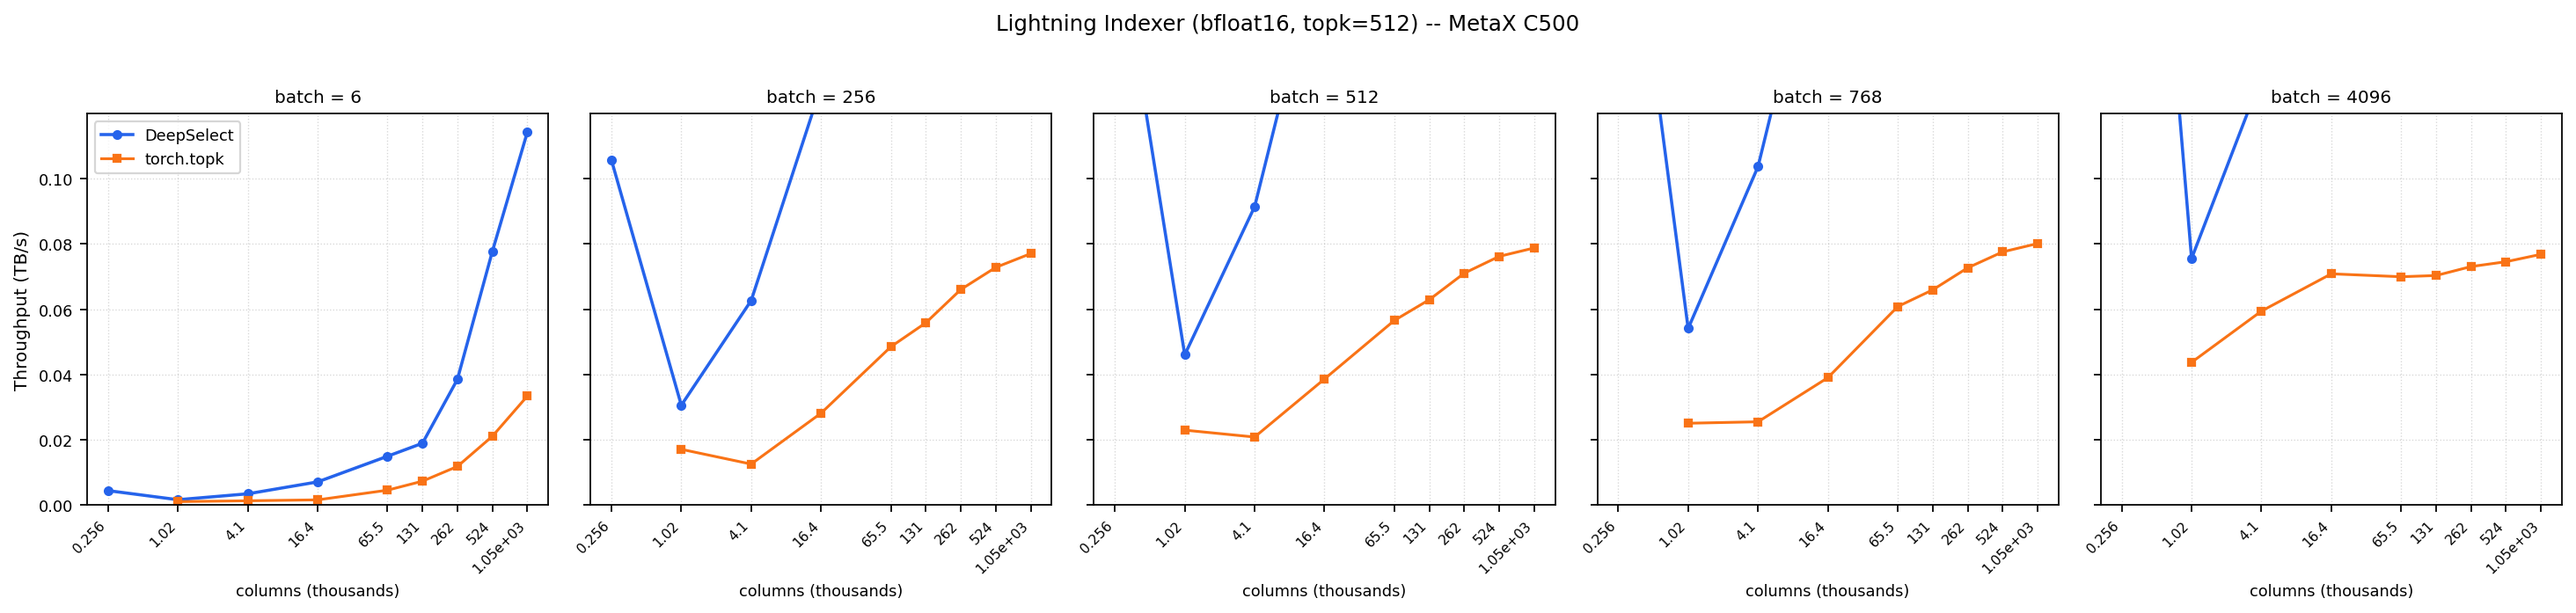
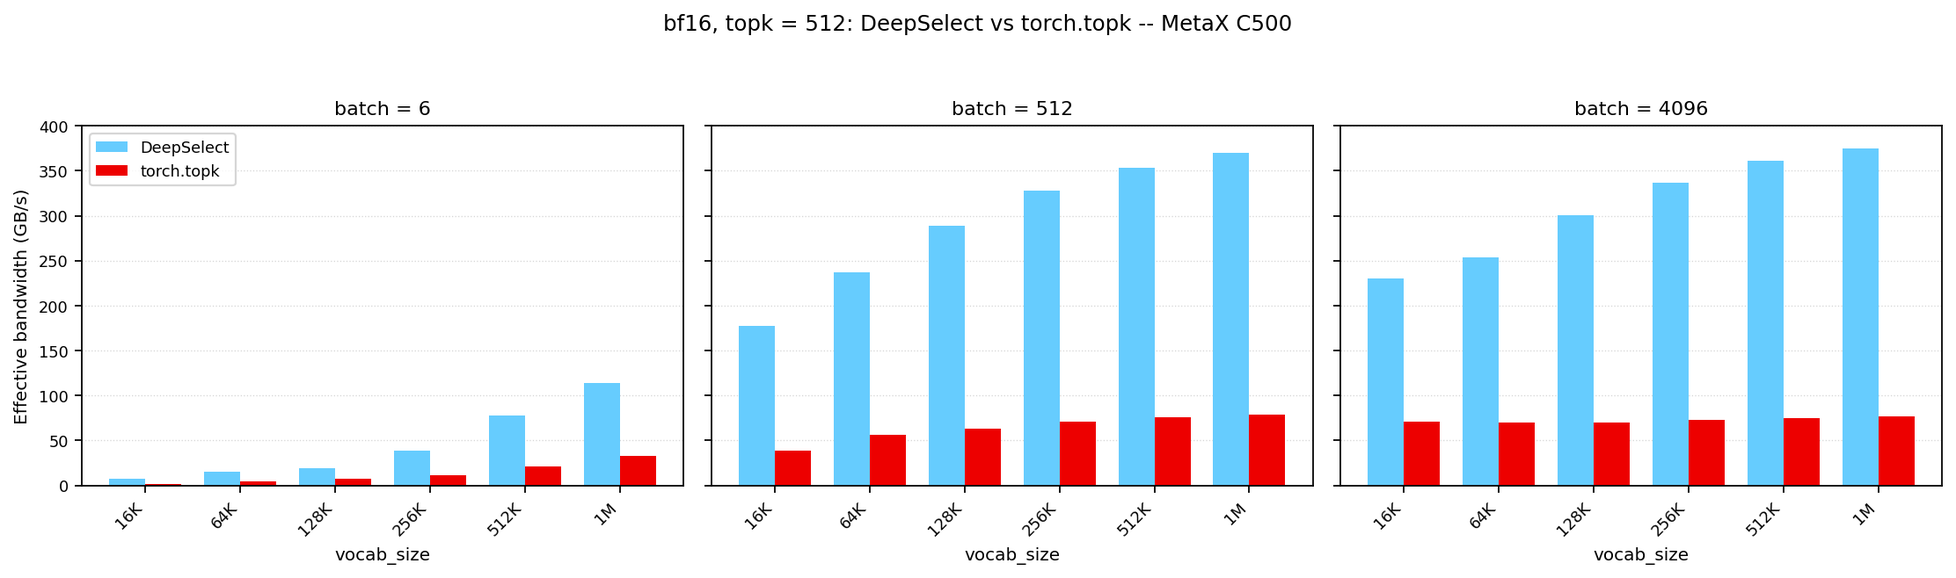
docs: redraw the MACA figures as grouped bar charts, on a fitted y-axis
The two `_maca` figures were line plots of a grid the README did not describe.
They are now the same instrument upstream's own figures are -- grouped bars of
effective bandwidth, DeepSelect beside torch.topk -- so the MACA picture and
the CUDA picture can be read against each other: bf16 in one panel per batch
size (6 / 512 / 4096) over vocab size (16K / 64K / 128K / 256K / 512K / 1M),
fp32 over batch size (6 / 256 / 512 / 768 / 4096).  Style is matched to
`assets/perf_bf16.png` by sampling it: series colours `#66ccfe` / `#ed0000`,
boxed legend, dotted horizontal grid, `batch = N` panel titles, `16K`-spelled
ticks, `vocab_size` / `batch_size` axis labels, `-- {device}` in the title.

What is not matched is the axis: upstream's is a fixed 0 - 7 TB/s for an H200,
and these cells are memory-bound on a part whose read wall is a fraction of
that, so the shared TB/s axis would leave every bar a sliver.  These are GB/s
on a range fitted to the data.

Two defects the redraw exposed, both fixed here.

The shared y-axis was frozen at the first panel's peak.  `set_ylim` resolves a
shared axis on the spot, so a limit set from inside the per-panel loop fixes
the range before the later panels' taller bars are drawn -- on the bf16 figure
every bar of `batch = 512` and `batch = 4096` ran off the top of the axes.  The
limit is now computed from every panel's data at once, before the loop, and is
a round number clearing the tallest bar by >= 5%.
[…]

diff --git a/scripts/plot_perf.py b/scripts/plot_perf.py
@@ -2,13 +2,22 @@
 """Render the README's performance figures from a `perf_snapshot.py` recording.
 
 Two figures, both drawn from one `deepselect_perf.csv` so the picture and the
-record it came from cannot disagree:
+record it came from cannot disagree.  Both are grouped bar charts of effective
+bandwidth, `maca_c` (DeepSelect) beside `torch.topk` in each group, laid out as
+`assets/perf_bf16.png` and `assets/perf_fp32.png` are:
 
-* `perf_bf16_maca.png` -- Lightning Indexer: bfloat16, `topk = 512`, one subplot
-  per batch size, effective throughput (TB/s) over the column count, `maca_c`
-  and `torch.topk` on a shared axis.
-* `perf_fp32_maca.png` -- Sampling: float32, `vocab_size = 129280`, `topk = 512`,
-  speedup against `torch.topk` over batch size.
+* `perf_bf16_maca.png` -- Lightning Indexer: bf16, `topk = 512`, one panel per
+  batch size (6 / 512 / 4096), grouped bars over vocab size (16K / 64K / 128K /
+  256K / 512K / 1M), one shared y-axis.
+* `perf_fp32_maca.png` -- Sampling: fp32, `vocab_size = 129280`, `topk = 512`,
+  grouped bars over batch size (6 / 256 / 512 / 768 / 4096).
+
+The upstream figures are in TB/s over a fixed 0-7 axis; these are in GB/s over a
+range fitted to the data, because these parts' read wall is a fraction of an
+H200's and a shared 0-7 TB/s axis would leave every bar a sliver.  What is
+matched is the rest of the style: the two series' colours, the boxed legend, the
+per-panel `batch = N` titles, the dotted horizontal grid, the `16K`-style tick
+labels and the `-- {device}` suffix each title carries.
 
 The CSV is written by `scripts/perf_snapshot.py`; the timings in it are
 `tests/test.py`'s own, one row per (cell, backend).  Only `maca_c` and `torch`
@@ -29,6 +38,8 @@ Usage:
 
 import argparse
 import csv
+import math
+import re
 from pathlib import Path
 
 import matplotlib
@@ -40,23 +51,44 @@ REPO = Path(__file__).resolve().parent.parent
 PERF_ROOT = REPO / "perf_data"
 DEFAULT_ASSETS = REPO / "assets"
 
-COLOR_MACA = "#2563eb"
-COLOR_TORCH = "#f97316"
+# Upstream's own series colours, sampled from `assets/perf_bf16.png`.
+COLOR_MACA = "#66ccfe"
+COLOR_TORCH = "#ed0000"
+
+# A recording directory's name, `YYYYmmdd_HHMMSS`.
+STAMP = re.compile(r"\d{8}_\d{6}")
+
+# The upstream figure's grid: three batch sizes, six vocab sizes, `topk = 512`.
+BF16_BATCHES = (6, 512, 4096)
+BF16_VOCABS = (16384, 65536, 131072, 262144, 524288, 1048576)
+
+BAR_WIDTH = 0.38
+# How much air the y-axis leaves above the tallest bar drawn.
+HEADROOM = 1.05
 
 
 def newest_snapshot(perf_root: Path) -> Path:
     """The `deepselect_perf.csv` of the newest `<device>/<stamp>/` recording.
 
     The stamp is `YYYYmmdd_HHMMSS`, so lexicographic order is chronological and
-    the path needs no stat to sort.
+    the path needs no stat to sort.  Two things are excluded deliberately:
+
+    * `perf_data/<device>/baseline` is a *symlink* to a recording, and globbing
+      `*/*` would let that name sort last under any device and pick a recording
+      from the wrong board with no sign that it did.
+    * The device directory's name.  Sorting the whole path would order the
+      *boards* (`MetaX_C500` before `MetaX_C600-U`) and only then the stamps, so
+      a week-old recording on the later-named board would beat this morning's on
+      the earlier-named one.  The stamp is the timestamp; it is what is compared.
     """
-    found = sorted(perf_root.glob("*/*/deepselect_perf.csv"))
-    if not found:
+    stamps = [p for p in perf_root.glob("*/*/deepselect_perf.csv")
+              if STAMP.fullmatch(p.parent.name)]
+    if not stamps:
         raise FileNotFoundError(
             f"no snapshot under {perf_root} -- record one with "
             f"`scripts/perf_snapshot.py` first"
         )
-    return found[-1]
+    return max(stamps, key=lambda p: (p.parent.name, str(p)))
 
 
 def load_rows(source: Path):
@@ -69,22 +101,12 @@ def load_rows(source: Path):
         raise ValueError(f"no rows found in {path}")
     required = {
         "family", "n_rows", "n_cols", "top_k", "input_dtype", "backend",
-        "time(us)", "throughput(TB/s)",
+        "bandwidth(GB/s)",
     }
     missing = required.difference(rows[0])
     if missing:
         raise ValueError(f"missing CSV columns: {', '.join(sorted(missing))}")
     return path, rows
-
-
-def _us(row: str):
-    """A row's `time(us)` as a float, or None when the backend was not timed.
-
-    An empty clock is "not measured", never zero: the two must not be conflated
-    into a point at the origin.
-    """
-    value = (row.get("time(us)") or "").strip()
-    return float(value) if value else None
 
 
 def _select(rows, **want):
@@ -93,6 +115,16 @@ def _select(rows, **want):
         if all(str(row.get(key, "")) == str(val) for key, val in want.items()):
             out.append(row)
     return out
+
+
+def _bandwidth(row):
+    """A row's `bandwidth(GB/s)` as a float, or None when it was not measured.
+
+    An empty cell is "not timed", never zero: the two must not be conflated
+    into a bar of zero height.
+    """
+    value = (row.get("bandwidth(GB/s)") or "").strip()
+    return float(value) if value else None
 
 
 def device_label(row) -> str:
@@ -107,108 +139,145 @@ def device_label(row) -> str:
     return row.get("device_name") or row.get("chip", "")
 
 
-def plot_bf16(rows, source: Path, output: Path) -> bool:
+def _vocab_label(n: int) -> str:
+    """A column count as a short tick label: 16384 -> `16K`, 1048576 -> `1M`."""
+    for div, suffix in ((1 << 20, "M"), (1 << 10, "K")):
+        if n >= div and n % div == 0:
+            return f"{n // div}{suffix}"
+    return str(n)
+
+
+def _bandwidth_by(cells, backend):
+    """`(n_rows, n_cols) -> GB/s` for one backend's timed cells."""
+    out = {}
+    for row in cells:
+        if row["backend"] != backend:
+            continue
+        value = _bandwidth(row)
+        if value is not None:
+            out[(int(row["n_rows"]), int(row["n_cols"]))] = value
+    return out
+
+
+def _axis_top(panels, headroom=HEADROOM):
+    """A round y-limit that clears the tallest bar of every panel.
+
+    It has to be computed from all panels at once and set explicitly: the
+    panels share a y-axis, and `set_ylim` resolves that shared axis on the
+    spot, so setting a limit from inside the panel loop would freeze the range
+    at whatever the first panel happened to contain -- clipping every later
+    panel's taller bars at the top of the axes.
+    """
+    values = [v for maca, torch_ref in panels
+              for v in list(maca) + list(torch_ref) if v is not None]
+    if not values:
+        return 1.0
+    target = max(values) * headroom
+    step = 10 ** math.floor(math.log10(target))
+    for mult in (1, 1.2, 1.5, 2, 2.5, 3, 4, 5, 6, 8, 10):
+        if step * mult >= target:
+            return step * mult
+    return step * 10
+
+
+def _grouped_bars(ax, positions, maca, torch_ref):
+    """One `maca_c`/`torch` bar pair per position, over matching values lists."""
+    ax.bar([p - BAR_WIDTH / 2 for p, v in zip(positions, maca) if v is not None],
+           [v for v in maca if v is not None], BAR_WIDTH,
+           color=COLOR_MACA, label="DeepSelect")
+    ax.bar([p + BAR_WIDTH / 2 for p, v in zip(positions, torch_ref) if v is not None],
+           [v for v in torch_ref if v is not None], BAR_WIDTH,
+           color=COLOR_TORCH, label="torch.topk")
+
+
+def _finish_axes(ax, ticks, labels, title, xlabel, top, ylabel=None):
+    ax.set_xticks(ticks)
+    ax.set_xticklabels(labels, rotation=45, ha="right", fontsize=8)
+    ax.set_title(title, fontsize=10)
+    ax.set_xlabel(xlabel, fontsize=9)
+    ax.grid(True, axis="y", linestyle=":", linewidth=0.6, alpha=0.5)
+    ax.set_axisbelow(True)
+    ax.tick_params(axis="y", labelsize=8)
+    ax.set_ylim(0, top)
+    if ylabel:
+        ax.set_ylabel(ylabel, fontsize=9)
+
+
+def plot_bf16(rows, output: Path) -> bool:
     cells = _select(rows, family="lightning_indexer", input_dtype="bfloat16",
                     top_k="512")
     if not cells:
         print("bf16: no lightning_indexer/bfloat16/topk=512 cells -- skipped")
         return False
 
-    def series(backend):
-        return {
-            (int(r["n_rows"]), int(r["n_cols"])): float(r["throughput(TB/s)"])
-            for r in cells
-            if r["backend"] == backend and r["throughput(TB/s)"]
-        }
-
-    maca, torch_ref = series("maca_c"), series("torch")
-    batches = sorted({batch for batch, _ in maca})
-    vocabs = sorted({vocab for _, vocab in maca})
+    maca, torch_ref = _bandwidth_by(cells, "maca_c"), _bandwidth_by(cells, "torch")
+    batches = [b for b in BF16_BATCHES if any((b, v) in maca for v in BF16_VOCABS)]
+    vocabs = [v for v in BF16_VOCABS if any((b, v) in maca for b in batches)]
+    if not batches or not vocabs:
+        print("bf16: the requested grid is not in this recording -- skipped")
+        return False
     chip = device_label(cells[0])
 
-    fig, axes = plt.subplots(
-        1, len(batches), figsize=(3.4 * len(batches) + 1.4, 4.4), dpi=160,
-        sharey=True, squeeze=False,
-    )
-    for ax, batch in zip(axes[0], batches):
-        m = sorted((v, maca[(batch, v)]) for v in vocabs if (batch, v) in maca)
-        t = sorted((v, torch_ref[(batch, v)]) for v in vocabs
-                   if (batch, v) in torch_ref)
-        if m:
-            ax.plot([v for v, _ in m], [y for _, y in m], marker="o",
-                    markersize=4, linewidth=1.6, color=COLOR_MACA,
-                    label="DeepSelect")
-        if t:
-            ax.plot([v for v, _ in t], [y for _, y in t], marker="s",
-                    markersize=3.5, linewidth=1.4, color=COLOR_TORCH,
-                    label="torch.topk")
-        ax.set_xscale("log", base=2)
-        ax.set_xticks(vocabs)
-        ax.set_xticklabels([f"{v / 1000:.3g}" for v in vocabs],
-                           rotation=45, ha="right", fontsize=7)
-        ax.set_title(f"batch = {batch}", fontsize=9)
-        ax.set_xlabel("columns (thousands)", fontsize=8)
-        ax.grid(True, which="both", linestyle=":", linewidth=0.6, alpha=0.5)
-        ax.tick_params(axis="y", labelsize=8)
-        ax.set_ylim(bottom=0)
-    axes[0][0].set_ylabel("Throughput (TB/s)", fontsize=9)
+    panels = [([maca.get((b, v)) for v in vocabs],
+               [torch_ref.get((b, v)) for v in vocabs]) for b in batches]
+    top = _axis_top(panels)
+
+    fig, axes = plt.subplots(1, len(batches), figsize=(14.0, 4.15), dpi=160,
+                             sharey=True, squeeze=False)
+    x = list(range(len(vocabs)))
+    for ax, batch, (maca_bars, torch_bars) in zip(axes[0], batches, panels):
+        _grouped_bars(ax, x, maca_bars, torch_bars)
+        _finish_axes(ax, x, [_vocab_label(v) for v in vocabs],
+                     f"batch = {batch}", "vocab_size", top)
+    axes[0][0].set_ylabel("Effective bandwidth (GB/s)", fontsize=9)
     axes[0][0].legend(frameon=True, fontsize=8, loc="upper left")
-    title = "Lightning Indexer (bfloat16, topk=512)"
+    title = "bf16, topk = 512: DeepSelect vs torch.topk"
     fig.suptitle(f"{title} -- {chip}" if chip else title, fontsize=11)
-    fig.tight_layout(rect=(0, 0, 1, 0.96))
+    fig.tight_layout(rect=(0, 0, 1, 0.94))
 
     output.parent.mkdir(parents=True, exist_ok=True)
     fig.savefig(output, bbox_inches="tight")
     plt.close(fig)
-    peak = max(maca.values())
-    print(f"bf16: {len(maca)} maca_c cells over {len(batches)} batch sizes, "
-          f"peak {peak:.3f} TB/s -> {output}")
+    peak = max(v for maca_bars, torch_bars in panels
+               for v in maca_bars + torch_bars if v is not None)
+    print(f"bf16: {len(batches)} batch sizes x {len(vocabs)} vocab sizes, "
+          f"peak {peak:.1f} GB/s on a 0-{top:g} axis -> {output}")
     return True
 
 
-def plot_fp32(rows, source: Path, output: Path) -> bool:
+def plot_fp32(rows, output: Path) -> bool:
     cells = _select(rows, family="sampler", input_dtype="float32",
                     n_cols="129280", top_k="512")
     if not cells:
         print("fp32: no sampler/float32/vocab=129280/topk=512 cells -- skipped")
         return False
 
-    clocks = {}
-    for row in cells:
-        us = _us(row)
-        if us is not None:
-            clocks.setdefault(int(row["n_rows"]), {})[row["backend"]] = us
-    points = sorted((b, c["torch"] / c["maca_c"]) for b, c in clocks.items()
-                    if "maca_c" in c and "torch" in c)
-    if not points:
+    maca, torch_ref = _bandwidth_by(cells, "maca_c"), _bandwidth_by(cells, "torch")
+    batches = sorted({b for b, _ in maca} & {b for b, _ in torch_ref})
+    if not batches:
         print("fp32: no cell where both maca_c and torch were timed -- skipped")
         return False
     chip = device_label(cells[0])
 
-    fig, ax = plt.subplots(figsize=(9, 5.5), dpi=160)
-    ax.plot([b for b, _ in points], [s for _, s in points], marker="o",
-            markersize=6, linewidth=1.8, color=COLOR_MACA,
-            label="DeepSelect vs torch.topk")
-    ax.axhline(1.0, color=COLOR_TORCH, linestyle="--", linewidth=1.5,
-               label="torch.topk (parity)")
-    for b, s in points:
-        ax.annotate(f"{s:.2f}x", (b, s), textcoords="offset points",
-                    xytext=(0, 7), ha="center", fontsize=8)
-    ax.set_xlabel("Batches")
-    ax.set_ylabel("Speedup vs torch.topk")
-    ax.set_title(f"Sampling (float32, vocab_size=129280, topk=512)"
-                 + (f" -- {chip}" if chip else ""))
-    ax.grid(True, linestyle=":", linewidth=0.7, alpha=0.55)
-    ax.legend(frameon=True)
-    ax.margins(x=0.06)
+    maca_bars = [maca.get((b, 129280)) for b in batches]
+    torch_bars = [torch_ref.get((b, 129280)) for b in batches]
+    top = _axis_top([(maca_bars, torch_bars)])
+
+    fig, ax = plt.subplots(figsize=(6.75, 4.3), dpi=160)
+    _grouped_bars(ax, list(range(len(batches))), maca_bars, torch_bars)
+    title = "fp32, vocab_size = 129280, topk = 512: DeepSelect vs torch.topk"
+    _finish_axes(ax, list(range(len(batches))), [str(b) for b in batches],
+                 f"{title} -- {chip}" if chip else title, "batch_size", top,
+                 ylabel="Effective bandwidth (GB/s)")
+    ax.legend(frameon=True, fontsize=8, loc="upper left")
     fig.tight_layout()
 
     output.parent.mkdir(parents=True, exist_ok=True)
     fig.savefig(output, bbox_inches="tight")
     plt.close(fig)
-    print(f"fp32: {len(points)} sampler cells, "
-          f"speedup {min(s for _, s in points):.2f}-"
-          f"{max(s for _, s in points):.2f}x -> {output}")
+    peak = max(v for v in maca_bars + torch_bars if v is not None)
+    print(f"fp32: {len(batches)} batch sizes, peak {peak:.1f} GB/s on a "
+          f"0-{top:g} axis -> {output}")
     return True
 
 
@@ -230,10 +299,10 @@ def main():
 
     wrote = []
     if args.figure in ("both", "bf16"):
-        if plot_bf16(rows, source, args.assets_dir / "perf_bf16_maca.png"):
+        if plot_bf16(rows, args.assets_dir / "perf_bf16_maca.png"):
             wrote.append("perf_bf16_maca.png")
     if args.figure in ("both", "fp32"):
-        if plot_fp32(rows, source, args.assets_dir / "perf_fp32_maca.png"):
+        if plot_fp32(rows, args.assets_dir / "perf_fp32_maca.png"):
             wrote.append("perf_fp32_maca.png")
     if not wrote:
         raise SystemExit("nothing rendered -- the recording has no cells for "

diff --git a/README.md b/README.md
@@ -203,10 +203,14 @@ floating-point math, so a FLOP rate would not be meaningful here.
 
 ### Lightning Indexer Scenario
 
-bfloat16, `topk = 512`, one subplot per batch size, on a shared 0 - 7 TB/s axis
-(the upstream CUDA figure). The MACA figure shares the layout but not the axis:
-its peak is under 0.4 TB/s, because the cells are memory-bound on a part whose
-read wall is a fraction of the H200's.
+bfloat16, `topk = 512`: grouped bars of effective bandwidth over vocab size
+(16K / 64K / 128K / 256K / 512K / 1M), one panel per batch size (6 / 512 /
+4096), on a shared y-axis. The two figures differ in that axis and nothing
+else: upstream's is 0 - 7 TB/s, the MACA measurement's is fitted to its own
+data, because these cells are memory-bound on a part whose read wall is a
+fraction of the H200's and a shared TB/s axis would leave every bar a sliver.
+The MACA figure's title also names the board it was taken on, since
+`perf_data/` holds a recording per device.
 
 ![DeepSelect vs torch.topk, bfloat16 Lightning Indexer](assets/perf_bf16.png)
 
@@ -214,7 +218,9 @@ read wall is a fraction of the H200's.
 
 ### Sampling Scenario
 
-float32, `vocab_size = 129280`, `topk = 512`.
+float32, `vocab_size = 129280`, `topk = 512`: grouped bars of effective
+bandwidth over batch size (6 / 256 / 512 / 768 / 4096), same two series and
+same two axis conventions as above.
 
 ![DeepSelect vs torch.topk, float32 Sampling](assets/perf_fp32.png)
 
